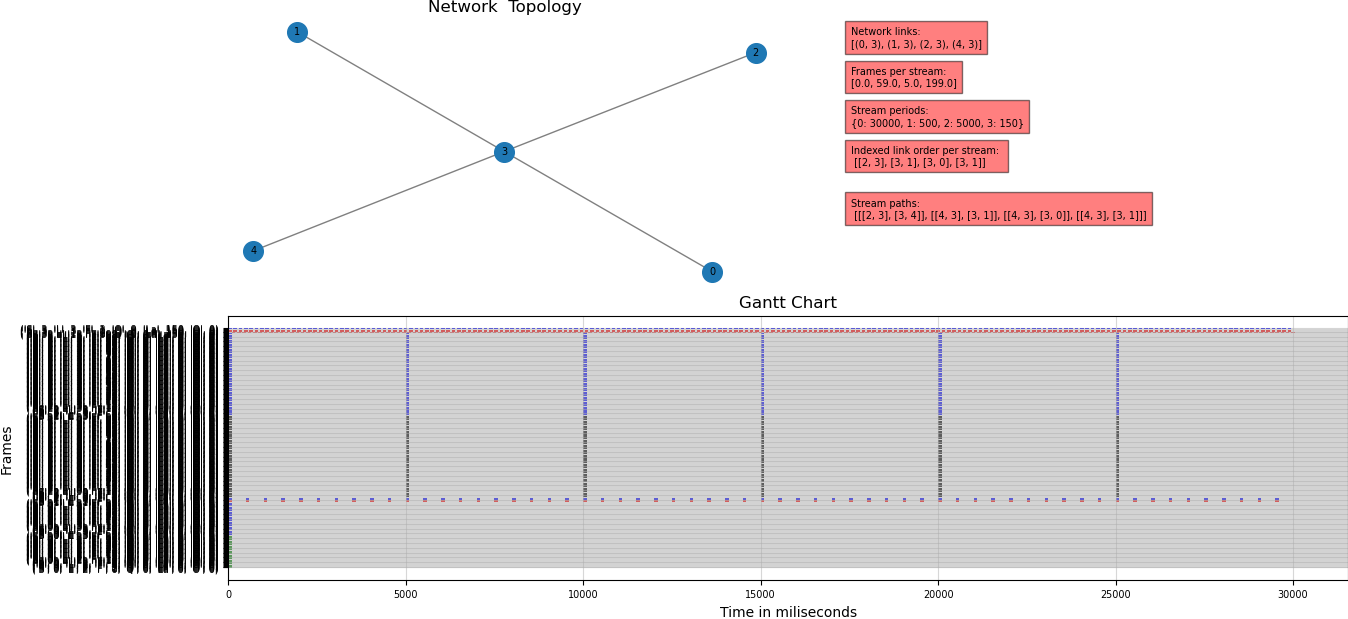
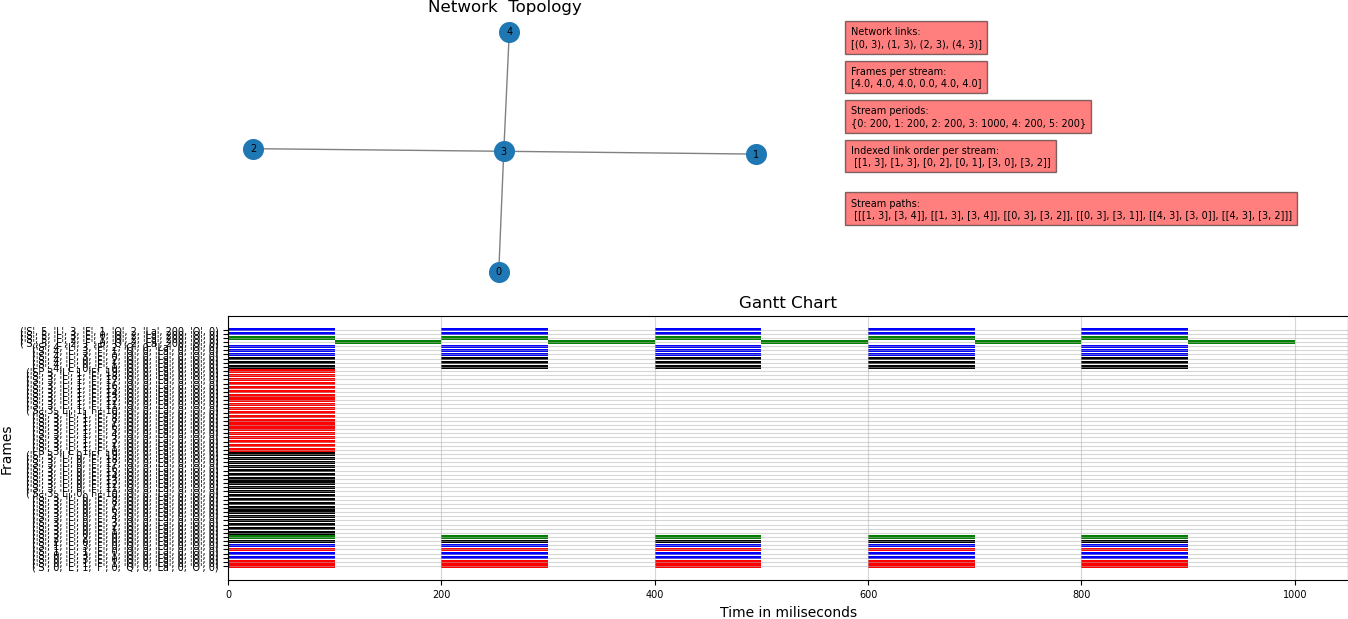
imagen

diff --git a/Heuristic_Generator.py b/Heuristic_Generator.py
@@ -1,4 +1,4 @@
-##################################### Heuristic Strategy starts here #####################################
+33##################################### Heuristic Strategy starts here #####################################
 from pyomo.environ import *
 from pyomo.opt import SolverFactory
 from pyomo.core import Var
@@ -48,7 +48,7 @@ class Heuristic_class :
         self.model.Frames_per_Stream = self.Frames_per_Stream
         #self.model.Stream_Source_Destination = self.Stream_Source_Destination
         self.model.Streams_Period = self.Streams_Period
-        #self.model.Streams_size = self.Streams_size
+        self.model.Streams_size = self.Streams_size
         #self.model.Streams_paths = self.Streams_paths
         #self.model.Sort_Stream_Source_Destination = self.Sort_Stream_Source_Destination
         #Dictionary
@@ -75,7 +75,9 @@ class Heuristic_class :
         self.instance.solutions.load_from(self.results)
 
 def Greedy_Heuristic(model, num_stream):
+    total_utilizacion_enlace = 0
     for key_stream in model.Streams:
+        print("                ", key_stream," ",num_stream, "        ", model.Streams.value)
         key_stream = num_stream
         value_stream = (0,0)
         success = False
@@ -95,6 +97,20 @@ def Greedy_Heuristic(model, num_stream):
                     #success = True
                     break
         print("--antes de acabar meter otro stream-----------------------------------------------------------------------")
+#        utilicacion_enlace = model.Streams_size[key_stream] /( model.Streams_Period[key_stream]* 1000000000)
+#        print("utilicacion_enlace   ",utilicacion_enlace)
+#        if utilicacion_enlace > 0.2: 
+#            print("individual  SE ACABA ")
+#            return False          
+#        if total_utilizacion_enlace is None:
+#            total_utilizacion_enlace = utilicacion_enlace
+#        else:
+#            total_utilizacion_enlace += utilicacion_enlace
+#        print("total_utilizacion_enlace     ",total_utilizacion_enlace)
+#        if total_utilizacion_enlace > 0.45:
+#            print("global  SE ACABA ")
+#            return False
+#        return True
         #primero comprobar la utilizacion
         utilizacion = 0.25
         utilizacion_hiperperiodo = utilizacion * model.Hyperperiod * 8
@@ -109,8 +125,7 @@ def Greedy_Heuristic(model, num_stream):
                 else:
                     count_valores[key2] += len(lista_vectores) * 100
         #COUNT UTILIZACION PORCENTAJE
-        print("contador de valores ",count_valores)
-        
+        print("contador de valores ",count_valores)      
         # condicion uno, media de todos los links superior x #la media de los valores ALL_VALUES SUMA DE TODOS LOS VALORES
         all_values = []
         for value in count_valores.values():
@@ -132,7 +147,6 @@ def Greedy_Heuristic(model, num_stream):
         # si uno de los dos se cumpre escribir los resultado en el read --> WRITE
 
 def Schedule_flow(key_stream, value_stream, model,cola):
-    print("                ", key_stream, "        ", model.Streams_paths_Dic[key_stream])
     for frame in range(model.Frames_per_Stream[key_stream][0]):
         #print("frame   ", frame)
         a = 0

diff --git a/Heuristic_Visualizer.py b/Heuristic_Visualizer.py
@@ -19,9 +19,9 @@ input_name = input + "_heuristic"
 file_input_topo = "Inputs/"+input+"_topo.json"
 file_input = "Solutions/"+input+".json"
 file_result = "Results/"+input+"_result.json"
-#Hyperperiod = 1000
+Hyperperiod = 1000
 #Hyperperiod = 6000
-Hyperperiod = 30000
+#Hyperperiod = 30000
 
 def Heuristic_results_visualizer(instance, Model_Descriptor_vector):
     print("############### This is the set of offsets ######################")
